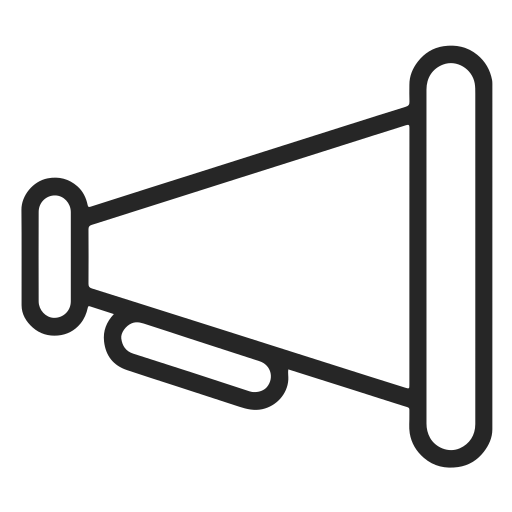
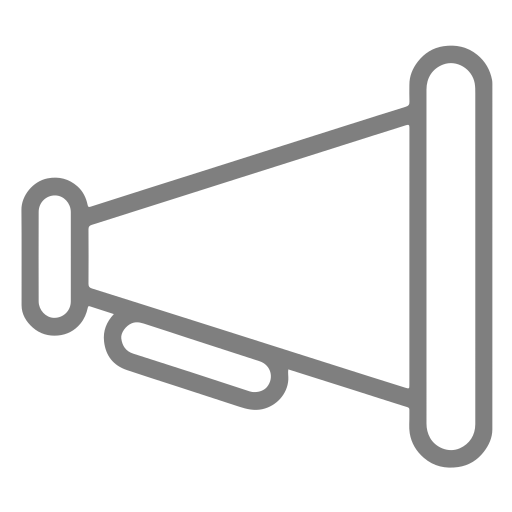
Notification icona je siva, da je vidna na belih in črnih zaslonih

Changed region(s): [[0.0312, 0.0625, 0.9688, 0.9375]]

diff --git a/src/app/animations.ts b/src/app/animations.ts
@@ -23,8 +23,8 @@ export const slideInAnimation =
           animate('300ms ease-in-out', style({ left: '0%' }))
         ])
       ]),
-      // query(':enter', animateChild()),
-      // query(':leave', animateChild()),
+      //query(':enter', animateChild()),
+      //query(':leave', animateChild()),
     ]),
     transition('SecondPage => FirstPage, SecondPageOpozorila => FirstPage, AnotherSecondPage => *', [
       style({ position: 'relative' }),
@@ -47,8 +47,8 @@ export const slideInAnimation =
           animate('300ms ease-in-out', style({ left: '0%' }))
         ])
       ]),
-      // query(':enter', animateChild()),
-      // query(':leave', animateChild()),
+      //query(':enter', animateChild()),
+      //query(':leave', animateChild()),
     ]),
     transition('NOC => AnotherSecondPage, FirstPage => AnotherSecondPage, SecondPage => AnotherSecondPage', [
       style({ position: 'relative' }),
@@ -71,8 +71,8 @@ export const slideInAnimation =
           animate('300ms ease-in-out', style({ left: '0%' }))
         ])
       ]),
-      // query(':enter', animateChild()),
-      // query(':leave', animateChild()),
+      //query(':enter', animateChild()),
+      //query(':leave', animateChild()),
     ]),
     transition('* => FirstPage', [
       style({ position: 'relative' }),
@@ -92,7 +92,7 @@ export const slideInAnimation =
           animate('300ms ease-in-out', style({ left: '0%' }))
         ])
       ]),
-      // query(':enter', animateChild()),
+      //query(':enter', animateChild()),
     ]),
     transition('* => SecondPage', [
       style({ position: 'relative' }),
@@ -112,6 +112,6 @@ export const slideInAnimation =
           animate('300ms ease-in-out', style({ left: '0%' }))
         ])
       ]),
-      // query(':enter', animateChild()),
+      //query(':enter', animateChild()),
     ])
   ]);

diff --git a/src/sw-custom.js b/src/sw-custom.js
@@ -40,7 +40,7 @@ self.addEventListener('push', event => {
                 body: data.title,
                 icon: 'assets/img/notif-icon.png',
 				badge: 'assets/img/notif-badge.png',
-                vibrate: [100, 50, 100],
+                vibrate: [500, 500],
                 data: {
                     dateOfArrival: Date.now(),
                     url: self.registration.scope + 'opozorila?show=' + data.id,
@@ -59,7 +59,7 @@ self.addEventListener('push', event => {
             Notification.requestPermission();
         }
     }
-    if (event.data) {
+    if (event.data.length > 0) {
         console.log('This push event has data: ', event.data);
         displayNotif(event.data.json());
     } else {
